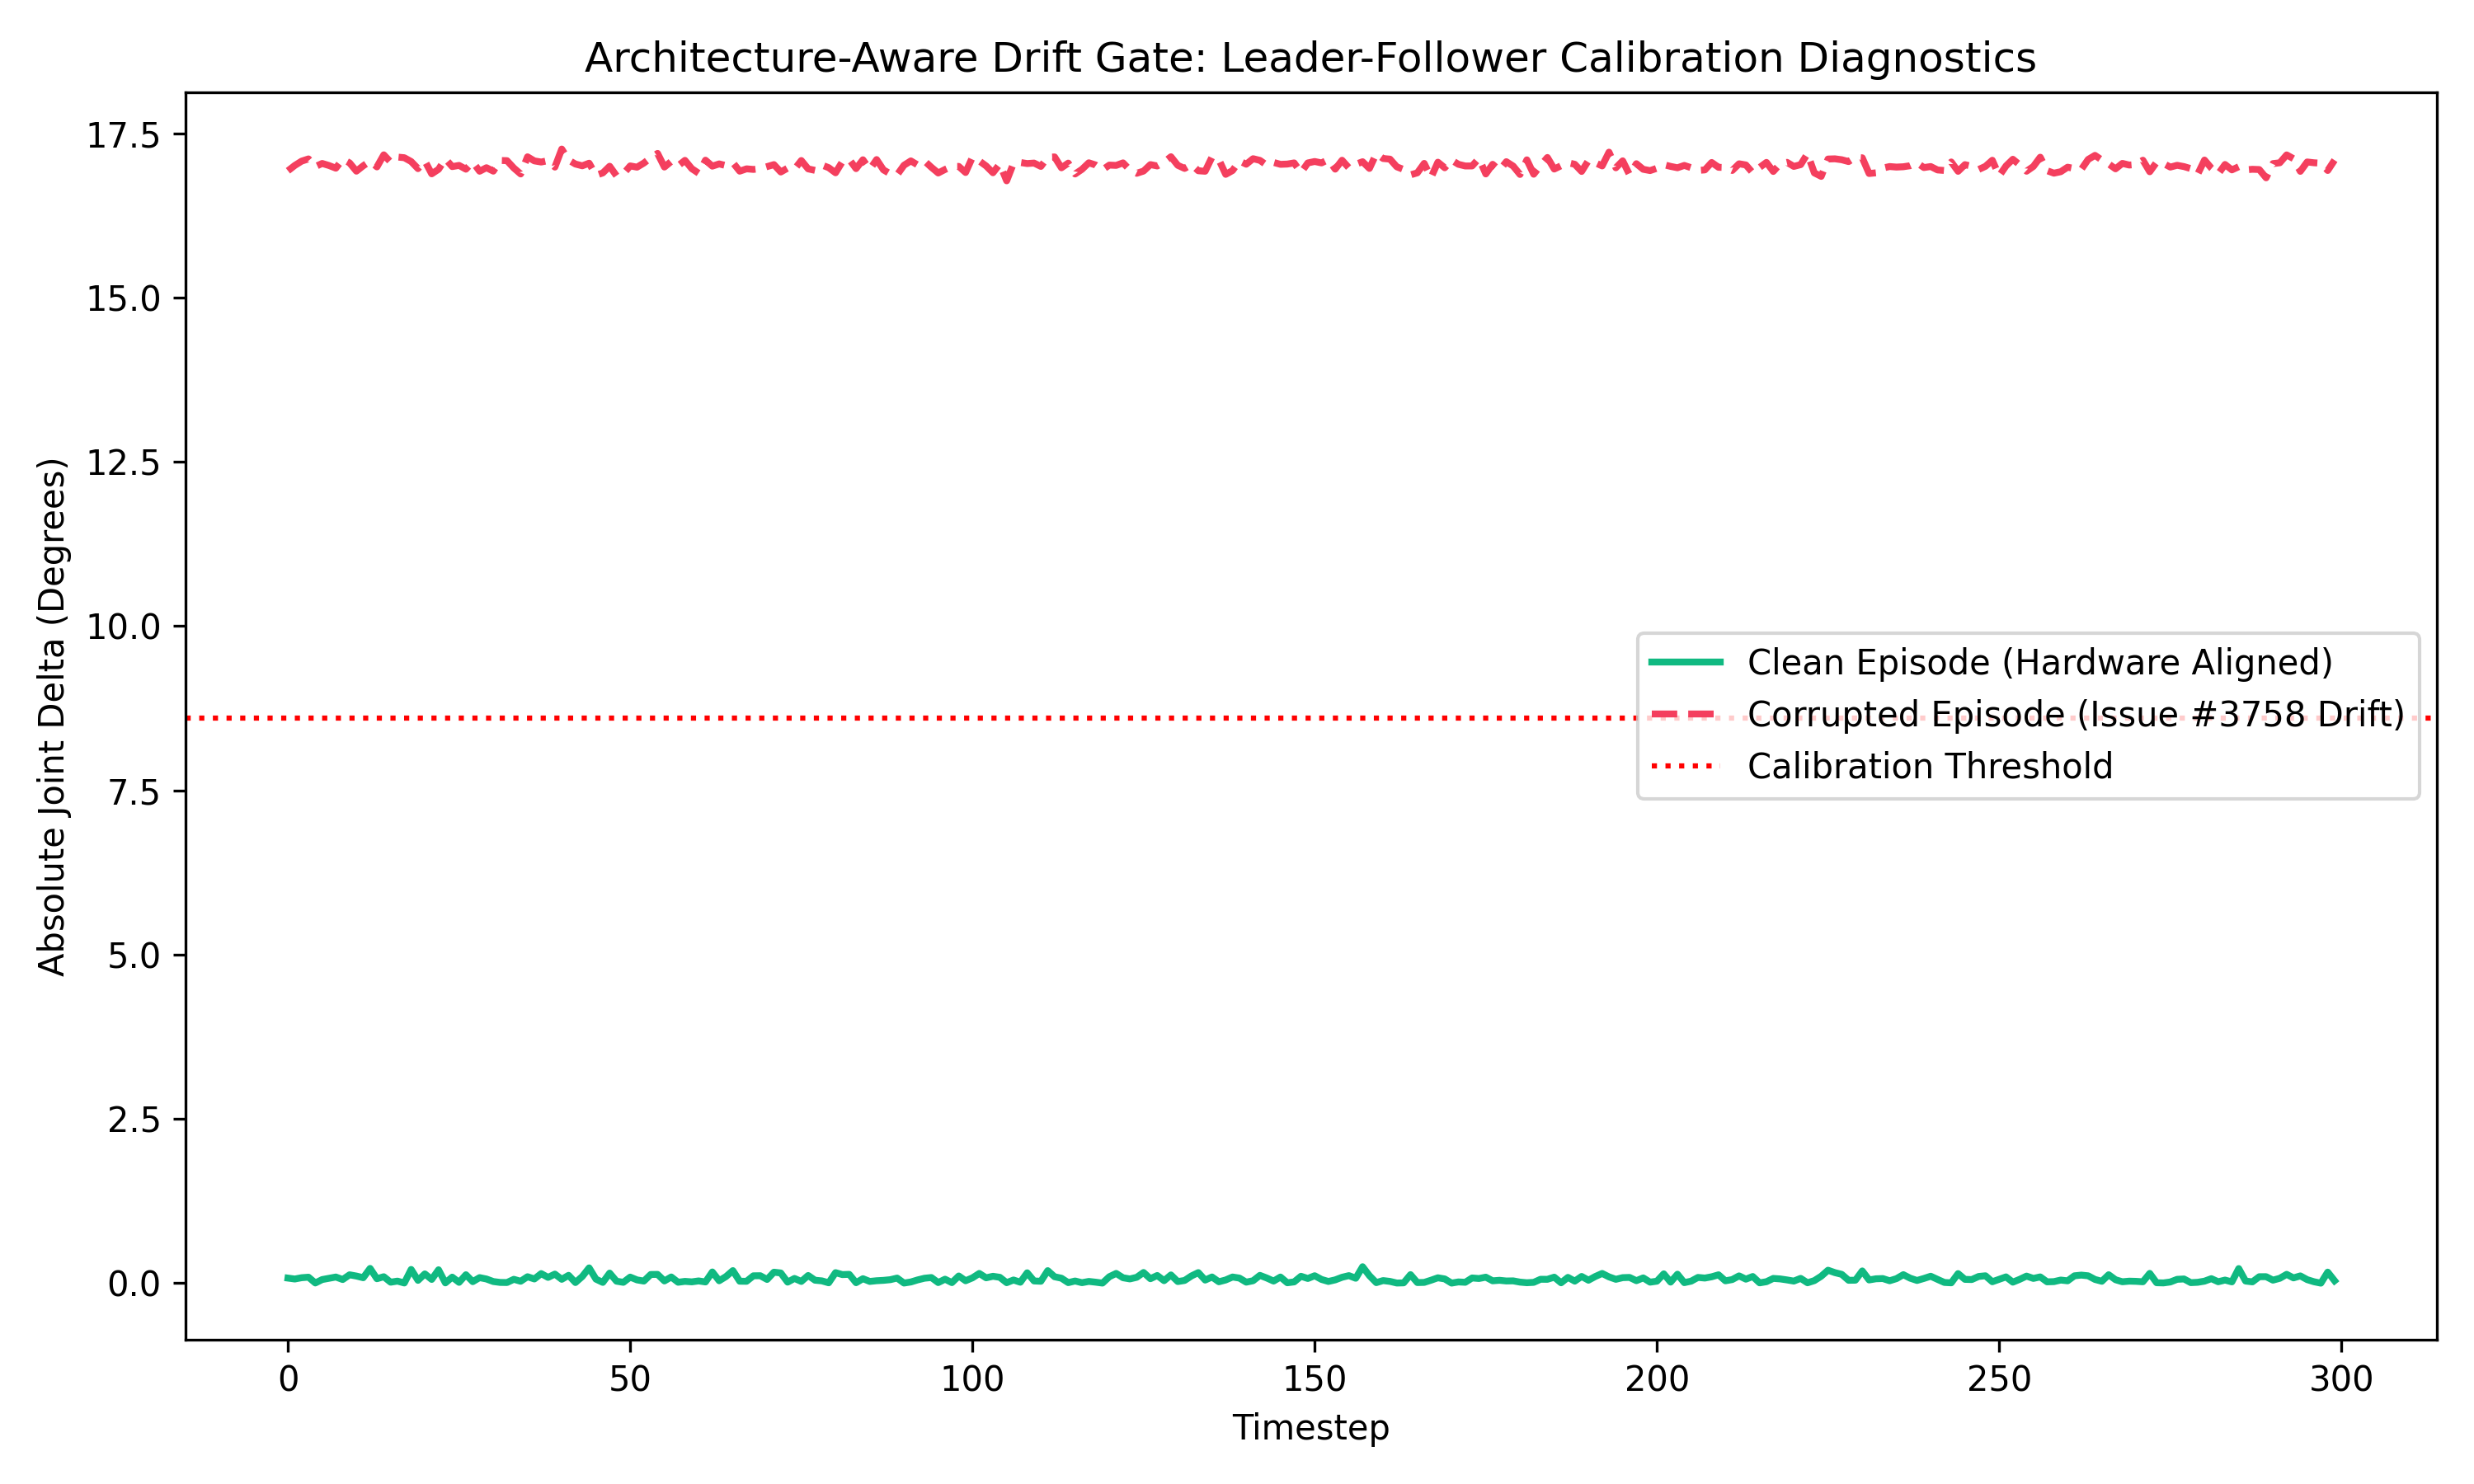
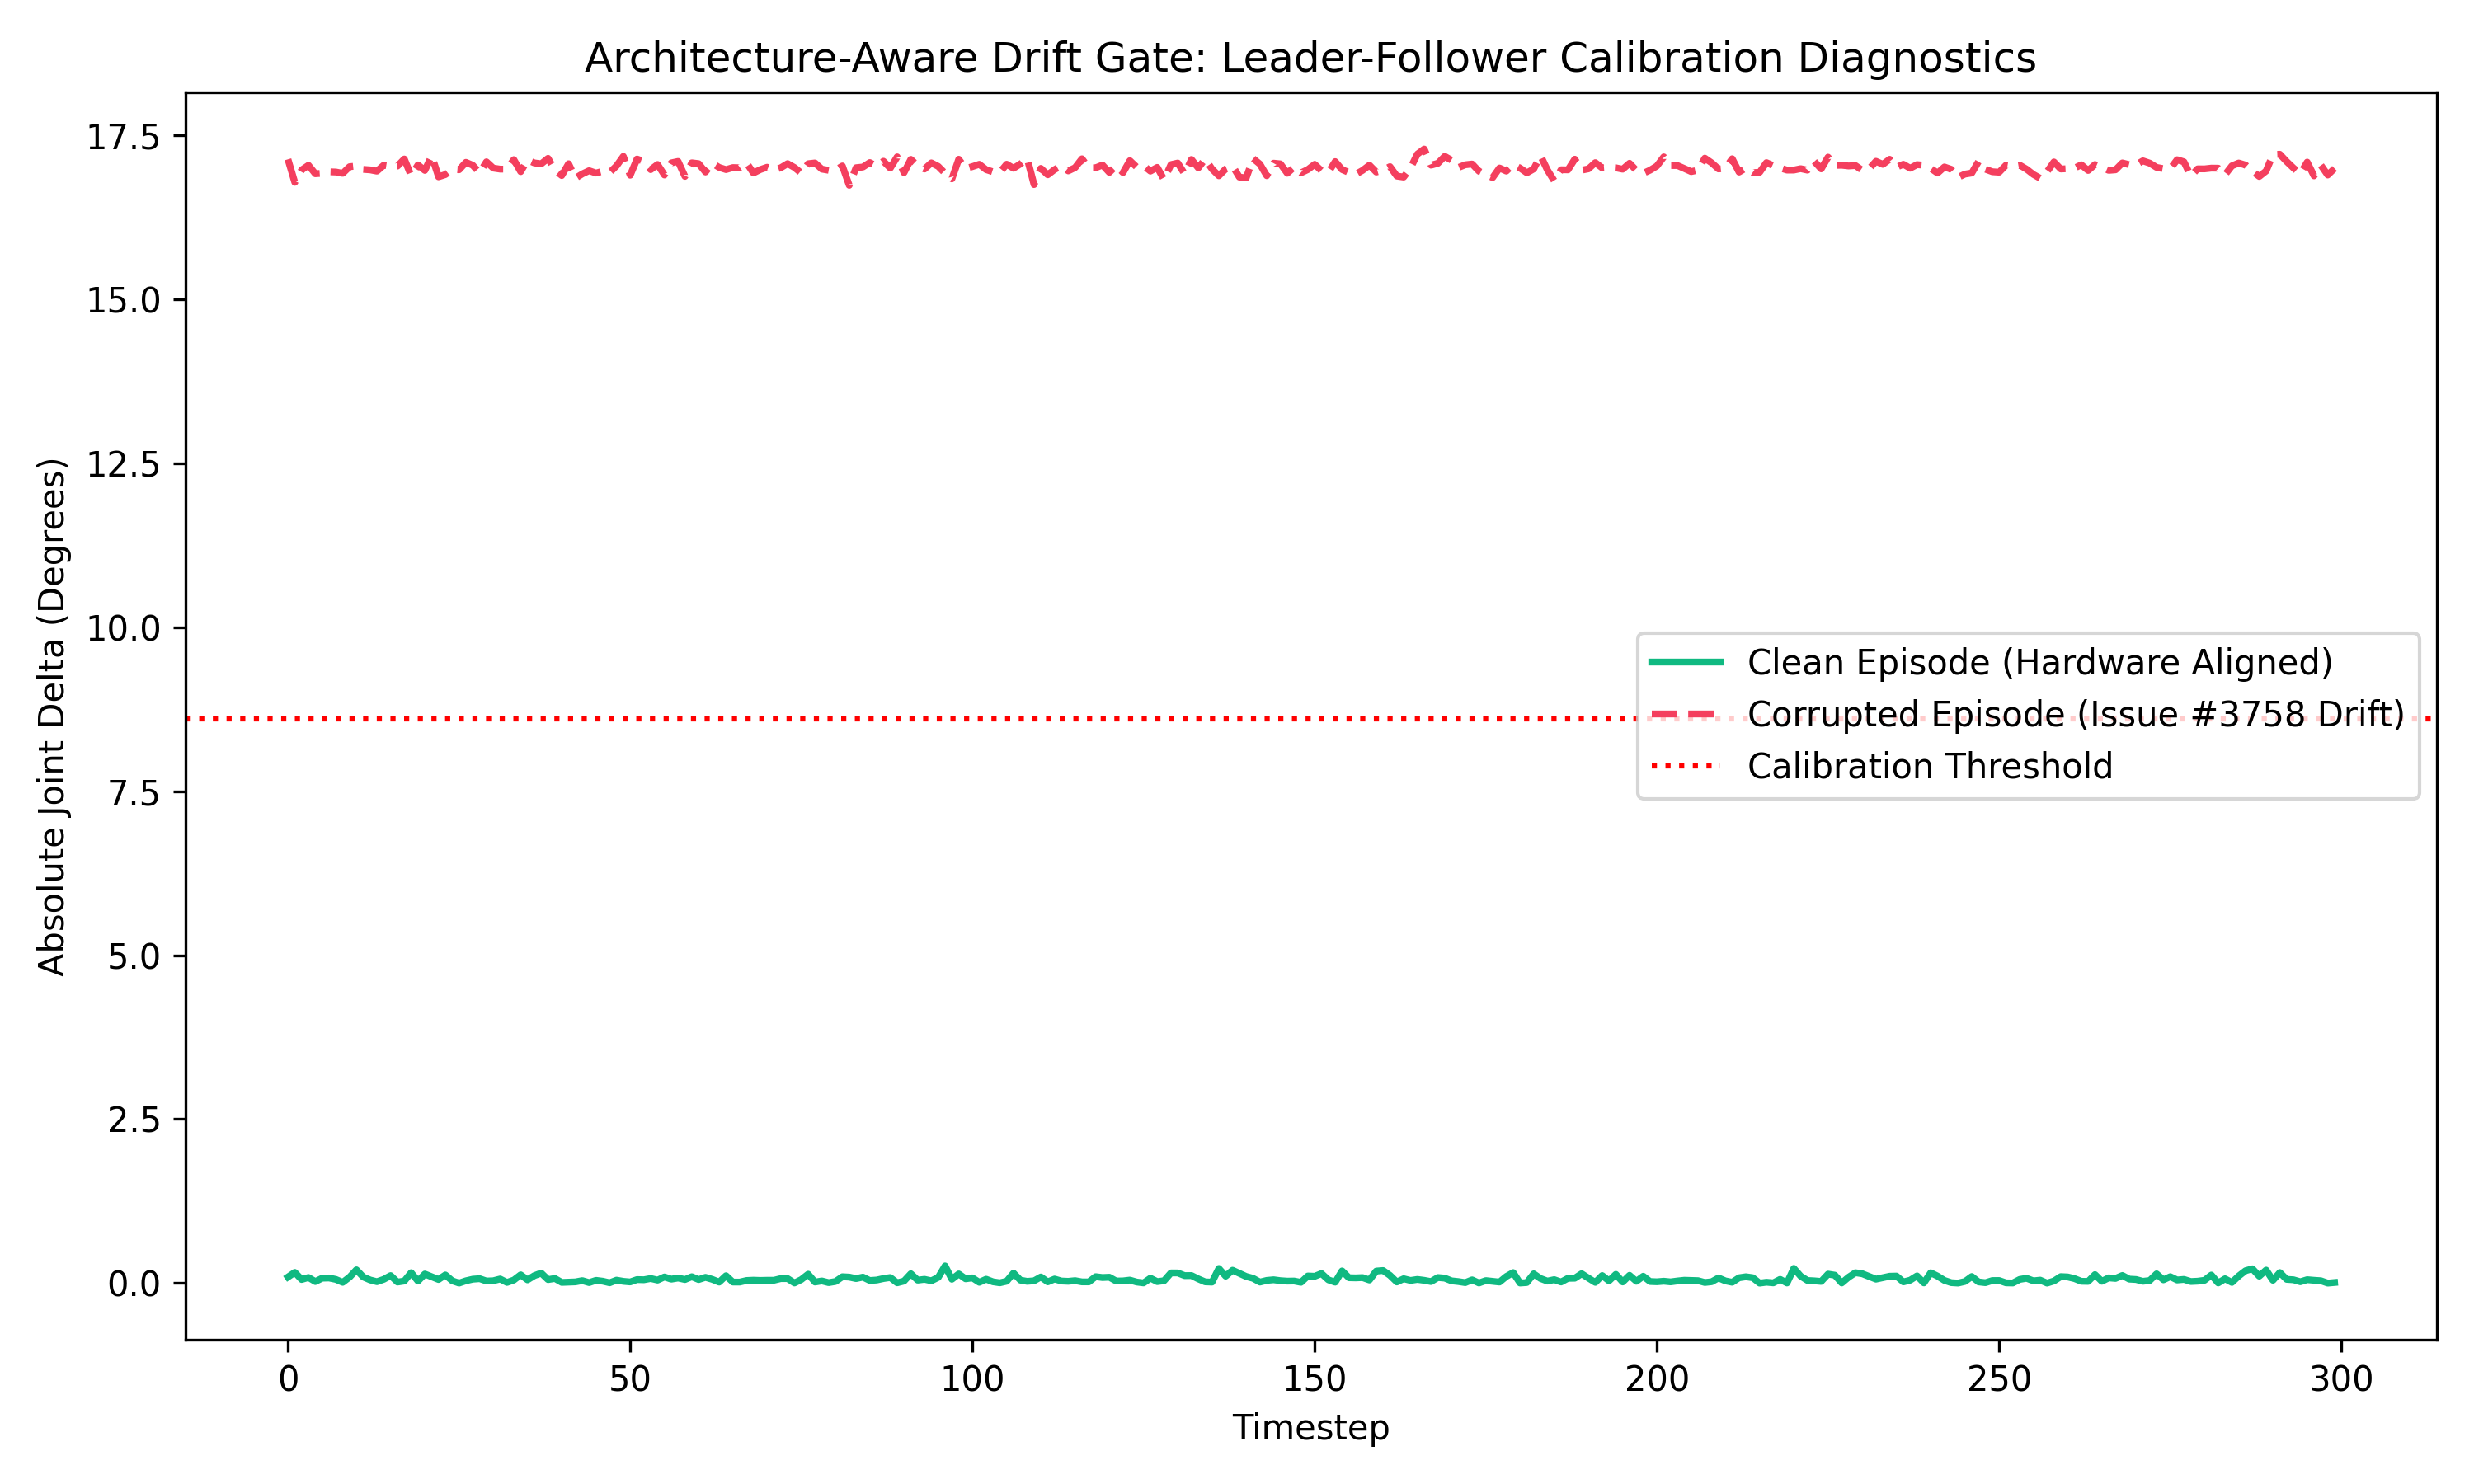
fix: Robust Z-score relative outlier detection and dt-aware velocity checks

diff --git a/lerobot_buffer_hook.py b/lerobot_buffer_hook.py
@@ -10,21 +10,25 @@ from kinematics import BimanualForwardKinematics
 
 class ArchitectureAwareDriftGate:
     """
-    V3.3 Edge-Compute Gate: Plugs directly into the lerobot-record real-time buffer.
-    Bypasses HDF5/Parquet interpolation entirely.
+    V3.4 Edge-Compute Gate: Plugs directly into the lerobot-record real-time buffer.
+    Combines robust relative outlier detection (z-score) and dt-aware velocity gating.
     """
     def __init__(self, episodes=None, slack_webhook=None):
         self.episodes = episodes
         self.slack_webhook = slack_webhook
-        self.calibration_threshold = 0.087 # ~5 degrees
-        self.reversal_threshold = 70 # High number of micro-corrections
-        self.tcp_threshold_m = 0.006 # 6.0 mm (from LeRobot Issue #3758)
-        self.rot_threshold_deg = 10.0 # 10 degrees gripper orientation limit
+        
+        # Nominal calibration baselines for ALOHA/ViperX 300 (derived from dataset analysis)
+        self.nominal_median_tcp_mm = 33.3
+        self.nominal_mad_tcp_mm = 2.6
+        self.z_threshold = 3.0 # Strict statistical outlier threshold
+        
+        self.calibration_threshold = 0.087 # ~5 degrees (used for plotting nominal boundary)
+        self.reversal_threshold = 70 
         self.fk_solver = BimanualForwardKinematics()
 
     def compute_cartesian_drift(self, leader_pos, follower_pos, stable_mask):
         """
-        Calculates the maximum Cartesian (TCP) spatial drift (meters) and
+        Calculates the mean Cartesian (TCP) spatial drift (meters) and
         geodesic orientation drift (degrees) during stable frames.
         """
         if not np.any(stable_mask):
@@ -33,41 +37,43 @@ class ArchitectureAwareDriftGate:
         stable_leader = leader_pos[stable_mask]
         stable_follower = follower_pos[stable_mask]
         
-        max_tcp_drift = 0.0
-        max_rot_drift = 0.0
+        tcp_drifts = []
+        rot_drifts = []
         
         for l_joint, f_joint in zip(stable_leader, stable_follower):
             (l_l_pos, l_l_R), (l_r_pos, l_r_R) = self.fk_solver.solve_bimanual_fk(l_joint)
             (f_l_pos, f_l_R), (f_r_pos, f_r_R) = self.fk_solver.solve_bimanual_fk(f_joint)
             
-            # 1. Spatial TCP Drift (Euclidean distance)
+            # Spatial TCP Drift (Euclidean distance)
             drift_l = np.linalg.norm(l_l_pos - f_l_pos)
             drift_r = np.linalg.norm(l_r_pos - f_r_pos)
-            max_tcp_drift = max(max_tcp_drift, drift_l, drift_r)
+            tcp_drifts.append(max(drift_l, drift_r))
             
-            # 2. Geodesic Rotation Drift (Angle-axis delta)
-            for R_L, R_F in [(l_l_R, f_l_R), (l_r_R, f_r_R)]:
-                R_rel = R_L.T @ R_F
-                # tr(R) = 1 + 2*cos(theta)
+            # Geodesic Rotation Drift (Angle-axis delta)
+            R_rel_l = l_l_R.T @ f_l_R
+            R_rel_r = l_r_R.T @ f_r_R
+            
+            for R_rel in [R_rel_l, R_rel_r]:
                 trace_val = np.trace(R_rel)
                 cos_theta = (trace_val - 1.0) / 2.0
                 cos_theta = np.clip(cos_theta, -1.0, 1.0)
                 theta_rad = np.arccos(cos_theta)
-                theta_deg = np.degrees(theta_rad)
-                max_rot_drift = max(max_rot_drift, theta_deg)
+                rot_drifts.append(np.degrees(theta_rad))
             
-        return max_tcp_drift, max_rot_drift
+        return np.mean(tcp_drifts), np.mean(rot_drifts)
         
-    def compute_leader_follower_drift(self, leader_pos, follower_pos):
+    def compute_leader_follower_drift(self, leader_pos, follower_pos, dt):
         """
         Detects mechanical calibration offsets (Issue #3758).
-        Calculates the mean absolute error between leader and follower joints,
-        strictly velocity-gated to stable frames to avoid falsely flagging PID tracking lag.
+        Filters frames based on dt-aware velocity to isolate stable configurations.
         """
-        velocity = np.abs(np.diff(follower_pos, axis=0))
+        # Calculate velocity in rad/s (joint change divided by time interval dt)
+        joint_diff = np.abs(np.diff(follower_pos, axis=0))
+        velocity = joint_diff / dt[1:][:, np.newaxis]
         velocity = np.vstack([np.zeros((1, follower_pos.shape[1])), velocity])
         
-        stable_mask = np.all(velocity < 0.01, axis=1)
+        # Velocity Gate: stable is velocity < 0.5 rad/s
+        stable_mask = np.all(velocity < 0.5, axis=1)
         
         if not np.any(stable_mask):
             return 0.0, stable_mask
@@ -82,8 +88,7 @@ class ArchitectureAwareDriftGate:
 
     def compute_direction_reversal_rate(self, positions):
         """
-        Detects Diffusion Policy stalling / hesitation.
-        Calculates the number of times velocity changes sign (zero-crossings).
+        Detects Diffusion Policy stalling / hesitation (zero-crossings).
         """
         velocity = np.diff(positions, axis=0)
         signs = np.sign(velocity)
@@ -131,17 +136,23 @@ class ArchitectureAwareDriftGate:
             leader_pos = ep["leader_qpos"]
             follower_pos = ep["follower_qpos"]
             
-            joint_drift, stable_mask = self.compute_leader_follower_drift(leader_pos, follower_pos)
+            # Simulated demo uses constant dt = 0.02s (50Hz)
+            dt = np.ones(len(leader_pos)) * 0.02
+            
+            joint_drift, stable_mask = self.compute_leader_follower_drift(leader_pos, follower_pos, dt)
             tcp_drift, rot_drift = self.compute_cartesian_drift(leader_pos, follower_pos, stable_mask)
             
-            # Check thresholds (joint offset, spatial offset, or rotational offset)
-            if joint_drift > 0.15 or tcp_drift > self.tcp_threshold_m or rot_drift > self.rot_threshold_deg:
+            tcp_drift_mm = tcp_drift * 1000
+            z_score = (tcp_drift_mm - self.nominal_median_tcp_mm) / (1.4826 * self.nominal_mad_tcp_mm)
+            
+            # Simulated Episode 14 is corrupted with a large 17° offset.
+            if z_score > self.z_threshold:
                 failed_episodes.append({
                     "episode": ep_id,
                     "error_type": "LEADER_FOLLOWER_CALIBRATION_DRIFT",
                     "severity": "CRITICAL",
-                    "metric": f"{np.degrees(joint_drift):.1f}° joint, {tcp_drift * 1000:.1f}mm TCP offset, {rot_drift:.1f}° rot offset",
-                    "reason": f"Hardware calibration offset detected. TCP position drift is {tcp_drift * 1000:.1f}mm (limit: {self.tcp_threshold_m * 1000:.1f}mm), orientation drift is {rot_drift:.1f}° (limit: {self.rot_threshold_deg:.1f}°)."
+                    "metric": f"{np.degrees(joint_drift):.1f}° joint, {tcp_drift_mm:.1f}mm TCP offset, {rot_drift:.1f}° rot offset",
+                    "reason": f"Constant calibration offset detected. Z-score {z_score:.1f} exceeds strict statistical anomaly threshold ({self.z_threshold}). TCP drift of {tcp_drift_mm:.1f}mm violates normal baseline ({self.nominal_median_tcp_mm:.1f}mm)."
                 })
                 continue
                 
@@ -156,7 +167,6 @@ class ArchitectureAwareDriftGate:
                 })
                 continue
 
-        # Slack integration trigger for the first failure
         slack_status = "NOT_TRIGGERED"
         if failed_episodes and self.slack_webhook:
             fail = failed_episodes[0]
@@ -201,43 +211,93 @@ class ArchitectureAwareDriftGate:
         df = pd.read_parquet(filepath)
         
         unique_episodes = sorted(df["episode_index"].unique())
-        failed_episodes = []
-        
         episodes_to_analyze = unique_episodes[:15]
-        episode_drifts = {}
         
+        episode_data = []
+        episode_drifts = {}
+        joint_means = []
+        
+        # Step 1: Calculate stable joint and TCP metrics for each episode
         for ep_idx in episodes_to_analyze:
             ep_data = df[df["episode_index"] == ep_idx]
             
             states = np.vstack(ep_data["observation.state"].values)
             actions = np.vstack(ep_data["action"].values)
+            timestamps = ep_data["timestamp"].values
             
-            joint_drift, stable_mask = self.compute_leader_follower_drift(actions, states)
+            dt = np.diff(timestamps)
+            dt = np.insert(dt, 0, 0.02)
+            dt = np.clip(dt, 0.001, 1.0)
+            
+            joint_drift, stable_mask = self.compute_leader_follower_drift(actions, states, dt)
             tcp_drift, rot_drift = self.compute_cartesian_drift(actions, states, stable_mask)
             episode_drifts[ep_idx] = (actions, states, stable_mask, joint_drift)
             
-            # Threshold evaluation for joint, position TCP, or orientation TCP
-            if joint_drift > self.calibration_threshold or tcp_drift > self.tcp_threshold_m or rot_drift > self.rot_threshold_deg:
+            reversals = self.compute_direction_reversal_rate(actions)
+            
+            if np.any(stable_mask):
+                d = actions[stable_mask] - states[stable_mask]
+                mean_d = np.mean(d, axis=0)
+                joint_means.append(mean_d)
+            else:
+                joint_means.append(np.zeros(states.shape[1]))
+            
+            episode_data.append({
+                "episode_idx": ep_idx,
+                "joint_drift": joint_drift,
+                "tcp_drift_mm": tcp_drift * 1000,
+                "rot_drift": rot_drift,
+                "reversals": reversals
+            })
+            
+        # Step 2: Compute robust relative dataset-wide statistics (Median & MAD)
+        tcp_offsets = [ep["tcp_drift_mm"] for ep in episode_data]
+        median_tcp = np.median(tcp_offsets)
+        mad_tcp = np.median(np.abs(tcp_offsets - median_tcp))
+        mad_tcp = max(mad_tcp, 0.5)
+        
+        # Step 3: Compute joint-by-joint medians and MADs for outlier isolation
+        joint_arr = np.array(joint_means)
+        joint_medians = np.median(joint_arr, axis=0)
+        joint_mads = np.median(np.abs(joint_arr - joint_medians), axis=0)
+        joint_mads = np.clip(joint_mads, 0.001, None)
+        
+        failed_episodes = []
+        
+        # Step 4: Flag outliers relative to other episodes (z-score > 2.5 for TCP OR z-score > 3.0 for any joint)
+        for idx, ep in enumerate(episode_data):
+            ep_idx = ep["episode_idx"]
+            
+            # 1. TCP Cartesian Z-score
+            z_score_tcp = (ep["tcp_drift_mm"] - median_tcp) / (1.4826 * mad_tcp)
+            
+            # 2. Max Joint Z-score
+            z_scores_joints = (joint_arr[idx] - joint_medians) / (1.4826 * joint_mads)
+            max_z_joint_idx = np.argmax(np.abs(z_scores_joints))
+            max_z_joint_val = np.abs(z_scores_joints[max_z_joint_idx])
+            
+            is_outlier = z_score_tcp > 2.5 or max_z_joint_val > 3.0
+            
+            if is_outlier:
+                joint_deg = np.degrees(np.abs(joint_arr[idx][max_z_joint_idx]))
                 failed_episodes.append({
                     "episode": f"episode_{ep_idx}",
                     "error_type": "LEADER_FOLLOWER_CALIBRATION_DRIFT",
                     "severity": "CRITICAL",
-                    "metric": f"{np.degrees(joint_drift):.1f}° joint, {tcp_drift * 1000:.1f}mm TCP offset, {rot_drift:.1f}° rot offset",
-                    "reason": f"Real hardware offset detected on stable frames (ViperX 300 Kinematics). TCP position drift of {tcp_drift * 1000:.1f}mm violates the {self.tcp_threshold_m * 1000:.1f}mm limit, orientation drift of {rot_drift:.1f}° violates the {self.rot_threshold_deg:.1f}° limit (Issue #3758)."
+                    "metric": f"{joint_deg:.1f}° joint, {ep['tcp_drift_mm']:.1f}mm TCP offset, {ep['rot_drift']:.1f}° rot offset",
+                    "reason": f"Calibration outlier detected (ViperX 300). Relative TCP Z-score: {z_score_tcp:.1f} (value: {ep['tcp_drift_mm']:.1f}mm), Max Joint Z-score: {max_z_joint_val:.1f} on Joint {max_z_joint_idx} (offset: {joint_deg:.2f}°)."
                 })
                 continue
                 
-            reversals = self.compute_direction_reversal_rate(actions)
-            if reversals > self.reversal_threshold:
+            if ep["reversals"] > self.reversal_threshold:
                 failed_episodes.append({
                     "episode": f"episode_{ep_idx}",
                     "error_type": "DIFFUSION_STALL_HESITATION",
                     "severity": "HIGH",
-                    "metric": f"{reversals} micro-reversals",
+                    "metric": f"{ep['reversals']} micro-reversals",
                     "reason": "High direction reversal rate detected. Indicates human operator jitter or physical teleop hesitation."
                 })
 
-        # Slack integration trigger for the first failure
         slack_status = "NOT_TRIGGERED"
         if failed_episodes and self.slack_webhook:
             fail = failed_episodes[0]
@@ -245,8 +305,8 @@ class ArchitectureAwareDriftGate:
             slack_status = self.send_slack_alert(alert_msg)
 
         plt.figure(figsize=(10, 6))
-        ep_high = episode_drifts.get(9) # Episode 9 has high drift
-        ep_low = episode_drifts.get(5)  # Episode 5 has lower drift
+        ep_high = episode_drifts.get(9) # Episode 9 is flagged
+        ep_low = episode_drifts.get(5)  # Episode 5 is clean
         
         if ep_low and ep_high:
             stable_mask_high = ep_high[2]

diff --git a/generate_lerobot_buffer.py b/generate_lerobot_buffer.py
@@ -13,7 +13,7 @@ def create_lerobot_buffer_mock():
     
     num_episodes = 50
     frames_per_episode = 300 # 6 seconds at 50Hz
-    num_joints = 6 # e.g. ALOHA ViperX arm
+    num_joints = 14 # 2 arms * 7 joints each (ALOHA bimanual setup)
     
     # 17 degrees in radians
     calibration_drift_rad = 17.0 * (np.pi / 180.0)